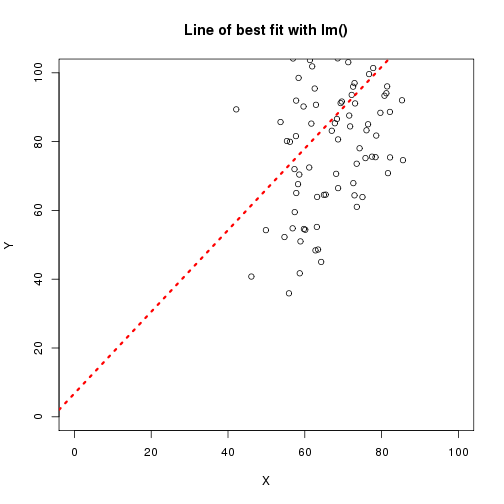
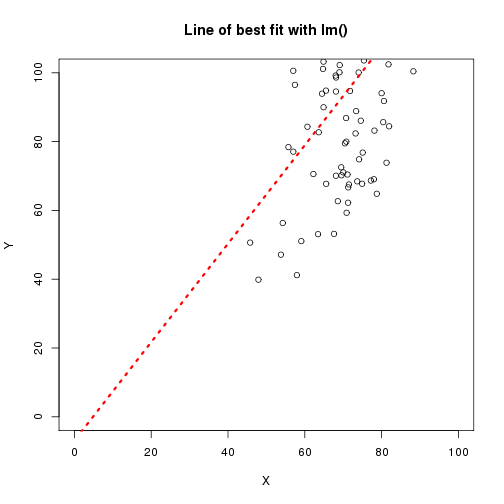
Adding images folder

diff --git a/r_course/introToR_Day1.md b/r_course/introToR_Day1.md
@@ -41,7 +41,7 @@ What is R to you?
 In particular, [Robert Gentleman](http://www.gene.com/scientists/our-scientists/robert-gentleman) developed the **[Bioconductor](http://bioconductor.org/)** project where 100s of packages are directly related to Biology and analysis of associated high-throughput experiments.
 ***
 
-![alt text](imgs/RCitations.jpeg)
+![alt text](https://cloud.githubusercontent.com/assets/5750801/5899879/e89f432c-a559-11e4-9f60-91b946451bc1.png)
 
 How to get R?
 ========================================================
@@ -1673,14 +1673,14 @@ A standard format for this data is a table
 
 |Gene_Name | Sample_1.hi| Sample_2.hi| Sample_3.hi| Sample_4.low| Sample_5.low| Sample_1.low|
 |:---------|-----------:|-----------:|-----------:|------------:|------------:|------------:|
-|Gene_a    |       3.572|       4.561|       3.394|        3.858|        2.837|        4.229|
-|Gene_b    |       3.205|       4.087|       4.237|        2.272|        4.723|        2.558|
-|Gene_c    |       3.904|       3.792|       3.145|        4.424|        1.933|        3.916|
-|Gene_d    |       4.148|       4.971|       4.517|        8.411|        8.345|        7.825|
-|Gene_e    |      11.277|       9.428|       9.941|        4.844|        3.089|        3.483|
-|Gene_f    |       9.691|       8.847|      10.328|        3.024|        1.571|        3.691|
-|Gene_g    |      10.512|       8.113|      11.316|       10.546|       11.016|        9.919|
-|Gene_h    |       9.585|      10.183|      10.120|        9.172|       10.704|        8.547|
+|Gene_a    |       3.922|       6.625|       1.878|        2.713|        3.710|        2.513|
+|Gene_b    |       1.954|       2.147|       5.298|        4.585|        5.633|        3.455|
+|Gene_c    |       4.645|       3.390|       3.370|        3.010|        2.423|        3.211|
+|Gene_d    |       2.558|       6.208|       4.792|        9.104|        9.320|        8.894|
+|Gene_e    |       8.765|      10.661|       8.417|        2.579|        3.445|        1.320|
+|Gene_f    |       8.836|       9.640|       8.639|        3.649|        2.777|        4.250|
+|Gene_g    |       9.335|      10.609|      11.757|        9.395|       10.413|        8.770|
+|Gene_h    |      10.130|       9.495|       9.575|       10.106|        9.811|        8.866|
 ```
 
 Data from text file
@@ -1885,7 +1885,7 @@ cor(x,z)
 ```
 
 ```
-[1] 0.1254
+[1] -0.1156
 ```
 
 ```r
@@ -1893,7 +1893,7 @@ cor(x,z,method="spearman")
 ```
 
 ```
-[1] 0.07833
+[1] -0.1157
 ```
 ***
 
@@ -1915,11 +1915,11 @@ minRep[1:2,]
 
 ```
      Sample_1.hi Sample_2.hi Sample_3.hi Sample_4.low Sample_5.low
-[1,]       3.572       4.561       3.394        3.858        2.837
-[2,]       3.205       4.087       4.237        2.272        4.723
+[1,]       3.923       6.625       1.878        2.713        3.710
+[2,]       1.954       2.147       5.298        4.585        5.633
      Sample_1.low
-[1,]        4.229
-[2,]        2.558
+[1,]        2.513
+[2,]        3.455
 ```
 
 
@@ -1929,18 +1929,18 @@ cor(minRep)
 
 ```
              Sample_1.hi Sample_2.hi Sample_3.hi Sample_4.low Sample_5.low
-Sample_1.hi       1.0000      0.9509      0.9732       0.3973       0.2767
-Sample_2.hi       0.9509      1.0000      0.9434       0.3954       0.3320
-Sample_3.hi       0.9732      0.9434      1.0000       0.4438       0.3904
-Sample_4.low      0.3973      0.3954      0.4438       1.0000       0.9075
-Sample_5.low      0.2767      0.3320      0.3904       0.9075       1.0000
-Sample_1.low      0.3419      0.3577      0.4249       0.9795       0.9187
+Sample_1.hi       1.0000      0.8751      0.8313       0.2452       0.1780
+Sample_2.hi       0.8751      1.0000      0.7534       0.2789       0.2648
+Sample_3.hi       0.8313      0.7534      1.0000       0.5173       0.4954
+Sample_4.low      0.2452      0.2789      0.5173       1.0000       0.9721
+Sample_5.low      0.1780      0.2648      0.4954       0.9721       1.0000
+Sample_1.low      0.2215      0.2628      0.4673       0.9775       0.9197
              Sample_1.low
-Sample_1.hi        0.3419
-Sample_2.hi        0.3577
-Sample_3.hi        0.4249
-Sample_4.low       0.9795
-Sample_5.low       0.9187
+Sample_1.hi        0.2215
+Sample_2.hi        0.2628
+Sample_3.hi        0.4673
+Sample_4.low       0.9775
+Sample_5.low       0.9197
 Sample_1.low       1.0000
 ```
 Correlation (Continued)
@@ -1983,7 +1983,7 @@ rnorm(10,mean=8,sd=3)
 ```
 
 ```
- [1]  7.130  3.303  8.779 10.339  8.154  8.976  5.526  7.072  9.256  9.304
+ [1]  6.348  1.422  9.038  6.442  7.281 10.385  5.545  7.978  9.483  6.596
 ```
 We can also use these functions to interrogate values assuming a normal distribution for the data.
 
@@ -2056,16 +2056,16 @@ tTestExample
 
 ```
        A     B     C
-1  25.84 41.28 46.22
-2  24.86 39.26 38.71
-3  25.17 41.50 39.33
-4  27.96 38.68 43.96
-5  26.77 38.51 34.45
-6  26.40 39.75 39.39
-7  28.09 40.77 38.85
-8  26.35 40.27 44.12
-9  26.63 38.77 48.56
-10 24.74 40.49 36.67
+1  26.96 41.10 38.44
+2  24.94 39.15 38.05
+3  26.43 39.42 44.05
+4  26.71 41.45 47.78
+5  24.92 40.11 46.16
+6  24.80 41.76 28.39
+7  24.75 39.43 36.91
+8  24.01 37.56 39.60
+9  24.34 40.47 37.31
+10 27.19 41.65 32.63
 ```
 
 T-test example
@@ -2079,7 +2079,7 @@ var(tTestExample$A)
 ```
 
 ```
-[1] 1.366
+[1] 1.397
 ```
 
 ```r
@@ -2087,7 +2087,7 @@ var(tTestExample$B)
 ```
 
 ```
-[1] 1.202
+[1] 1.804
 ```
 
 ```r
@@ -2095,7 +2095,7 @@ var(tTestExample$C)
 ```
 
 ```
-[1] 19.96
+[1] 35.07
 ```
  
 Now we can test for any differences in variance between A and B and A and C.
@@ -2110,13 +2110,13 @@ var.test(tTestExample$A,tTestExample$B)
 	F test to compare two variances
 
 data:  tTestExample$A and tTestExample$B
-F = 1.136, num df = 9, denom df = 9, p-value = 0.8525
+F = 0.7742, num df = 9, denom df = 9, p-value = 0.7092
 alternative hypothesis: true ratio of variances is not equal to 1
 95 percent confidence interval:
- 0.2822 4.5736
+ 0.1923 3.1169
 sample estimates:
 ratio of variances 
-             1.136 
+            0.7742 
 ```
 
 ```r
@@ -2128,13 +2128,13 @@ var.test(tTestExample$A,tTestExample$C)
 	F test to compare two variances
 
 data:  tTestExample$A and tTestExample$C
-F = 0.0684, num df = 9, denom df = 9, p-value = 0.0004668
+F = 0.0398, num df = 9, denom df = 9, p-value = 4.989e-05
 alternative hypothesis: true ratio of variances is not equal to 1
 95 percent confidence interval:
- 0.01699 0.27541
+ 0.009891 0.160327
 sample estimates:
 ratio of variances 
-           0.06841 
+           0.03982 
 ```
 
 T-test example
@@ -2154,13 +2154,13 @@ Result
 	Two Sample t-test
 
 data:  tTestExample$A and tTestExample$B
-t = -26.93, df = 18, p-value = 5.369e-16
+t = -25.99, df = 18, p-value = 1.001e-15
 alternative hypothesis: true difference in means is not equal to 0
 95 percent confidence interval:
- -14.71 -12.58
+ -15.89 -13.52
 sample estimates:
 mean of x mean of y 
-    26.28     39.93 
+    25.50     40.21 
 ```
 
 To compare groups of unequal variance then the var.equal argument may be set to FALSE (which is the default).
@@ -2176,13 +2176,13 @@ Result
 	Welch Two Sample t-test
 
 data:  tTestExample$A and tTestExample$C
-t = -10.1, df = 10.23, p-value = 1.217e-06
+t = -7.031, df = 9.716, p-value = 4.148e-05
 alternative hypothesis: true difference in means is not equal to 0
 95 percent confidence interval:
- -17.99 -11.50
+ -17.699  -9.155
 sample estimates:
 mean of x mean of y 
-    26.28     41.03 
+    25.50     38.93 
 ```
 
 T-test example
@@ -2207,13 +2207,13 @@ Result
 	Two Sample t-test
 
 data:  Value by Group
-t = -26.93, df = 18, p-value = 5.369e-16
+t = -25.99, df = 18, p-value = 1.001e-15
 alternative hypothesis: true difference in means is not equal to 0
 95 percent confidence interval:
- -14.71 -12.58
+ -15.89 -13.52
 sample estimates:
 mean in group A mean in group B 
-          26.28           39.93 
+          25.50           40.21 
 ```
 
 
@@ -2263,7 +2263,7 @@ lm(formula = Y ~ X, data = lmExample)
 
 Coefficients:
 (Intercept)            X  
-       6.79         1.19  
+      -6.93         1.43  
 ```
 
 Printing the result from lm() shows the call to lm() and the coefficients including the intercept.
@@ -2299,18 +2299,18 @@ lm(formula = Y ~ X, data = lmExample)
 
 Residuals:
    Min     1Q Median     3Q    Max 
- -38.0  -19.4   -2.2   19.9   39.8 
+-40.95 -20.78   4.03  18.30  45.00 
 
 Coefficients:
             Estimate Std. Error t value Pr(>|t|)    
-(Intercept)     6.79      15.96    0.43     0.67    
-X               1.19       0.23    5.17  1.3e-06 ***
+(Intercept)   -6.925     17.688   -0.39      0.7    
+X              1.431      0.246    5.82  7.5e-08 ***
 ---
 Signif. codes:  0 '***' 0.001 '**' 0.01 '*' 0.05 '.' 0.1 ' ' 1
 
-Residual standard error: 22.4 on 98 degrees of freedom
-Multiple R-squared:  0.214,	Adjusted R-squared:  0.206 
-F-statistic: 26.7 on 1 and 98 DF,  p-value: 1.26e-06
+Residual standard error: 22 on 98 degrees of freedom
+Multiple R-squared:  0.257,	Adjusted R-squared:  0.249 
+F-statistic: 33.9 on 1 and 98 DF,  p-value: 7.48e-08
 ```
 
 
@@ -2325,18 +2325,18 @@ lm(formula = Y ~ X, data = lmExample)
 
 Residuals:
    Min     1Q Median     3Q    Max 
- -38.0  -19.4   -2.2   19.9   39.8 
+-40.95 -20.78   4.03  18.30  45.00 
 
 Coefficients:
             Estimate Std. Error t value Pr(>|t|)    
-(Intercept)     6.79      15.96    0.43     0.67    
-X               1.19       0.23    5.17  1.3e-06 ***
+(Intercept)   -6.925     17.688   -0.39      0.7    
+X              1.431      0.246    5.82  7.5e-08 ***
 ---
 Signif. codes:  0 '***' 0.001 '**' 0.01 '*' 0.05 '.' 0.1 ' ' 1
 
-Residual standard error: 22.4 on 98 degrees of freedom
-Multiple R-squared:  0.214,	Adjusted R-squared:  0.206 
-F-statistic: 26.7 on 1 and 98 DF,  p-value: 1.26e-06
+Residual standard error: 22 on 98 degrees of freedom
+Multiple R-squared:  0.257,	Adjusted R-squared:  0.249 
+F-statistic: 33.9 on 1 and 98 DF,  p-value: 7.48e-08
 ```
 
 ***
@@ -2350,7 +2350,7 @@ To retrieve the residuals we can access the slot or use the resid() function.
 
 ```
    Min. 1st Qu.  Median    Mean 3rd Qu.    Max. 
-  -38.0   -19.4    -2.2     0.0    19.9    39.8 
+ -40.90  -20.80    4.03    0.00   18.30   45.00 
 ```
 
 ```r
@@ -2359,7 +2359,7 @@ To retrieve the residuals we can access the slot or use the resid() function.
 
 ```
    Min. 1st Qu.  Median    Mean 3rd Qu.    Max. 
-  -38.0   -19.4    -2.2     0.0    19.9    39.8 
+ -40.90  -20.80    4.03    0.00   18.30   45.00 
 ```
 Ideally you would want your residuals to be normally distributed around 0 indicating a good correspondence between predicted and actual values.
 
@@ -2374,18 +2374,18 @@ lm(formula = Y ~ X, data = lmExample)
 
 Residuals:
    Min     1Q Median     3Q    Max 
- -38.0  -19.4   -2.2   19.9   39.8 
+-40.95 -20.78   4.03  18.30  45.00 
 
 Coefficients:
             Estimate Std. Error t value Pr(>|t|)    
-(Intercept)     6.79      15.96    0.43     0.67    
-X               1.19       0.23    5.17  1.3e-06 ***
+(Intercept)   -6.925     17.688   -0.39      0.7    
+X              1.431      0.246    5.82  7.5e-08 ***
 ---
 Signif. codes:  0 '***' 0.001 '**' 0.01 '*' 0.05 '.' 0.1 ' ' 1
 
-Residual standard error: 22.4 on 98 degrees of freedom
-Multiple R-squared:  0.214,	Adjusted R-squared:  0.206 
-F-statistic: 26.7 on 1 and 98 DF,  p-value: 1.26e-06
+Residual standard error: 22 on 98 degrees of freedom
+Multiple R-squared:  0.257,	Adjusted R-squared:  0.249 
+F-statistic: 33.9 on 1 and 98 DF,  p-value: 7.48e-08
 ```
 
 The **R-squared** value represents the proportion of variability in the response variable that is explained by the explanatory variable.
@@ -2407,18 +2407,18 @@ lm(formula = Y ~ X, data = lmExample)
 
 Residuals:
    Min     1Q Median     3Q    Max 
- -38.0  -19.4   -2.2   19.9   39.8 
+-40.95 -20.78   4.03  18.30  45.00 
 
 Coefficients:
             Estimate Std. Error t value Pr(>|t|)    
-(Intercept)     6.79      15.96    0.43     0.67    
-X               1.19       0.23    5.17  1.3e-06 ***
+(Intercept)   -6.925     17.688   -0.39      0.7    
+X              1.431      0.246    5.82  7.5e-08 ***
 ---
 Signif. codes:  0 '***' 0.001 '**' 0.01 '*' 0.05 '.' 0.1 ' ' 1
 
-Residual standard error: 22.4 on 98 degrees of freedom
-Multiple R-squared:  0.214,	Adjusted R-squared:  0.206 
-F-statistic: 26.7 on 1 and 98 DF,  p-value: 1.26e-06
+Residual standard error: 22 on 98 degrees of freedom
+Multiple R-squared:  0.257,	Adjusted R-squared:  0.249 
+F-statistic: 33.9 on 1 and 98 DF,  p-value: 7.48e-08
 ```
 
 http://rstudio-pubs-static.s3.amazonaws.com/23247_8af1a386e4184c95bb36ba7a6ea0f699.html
